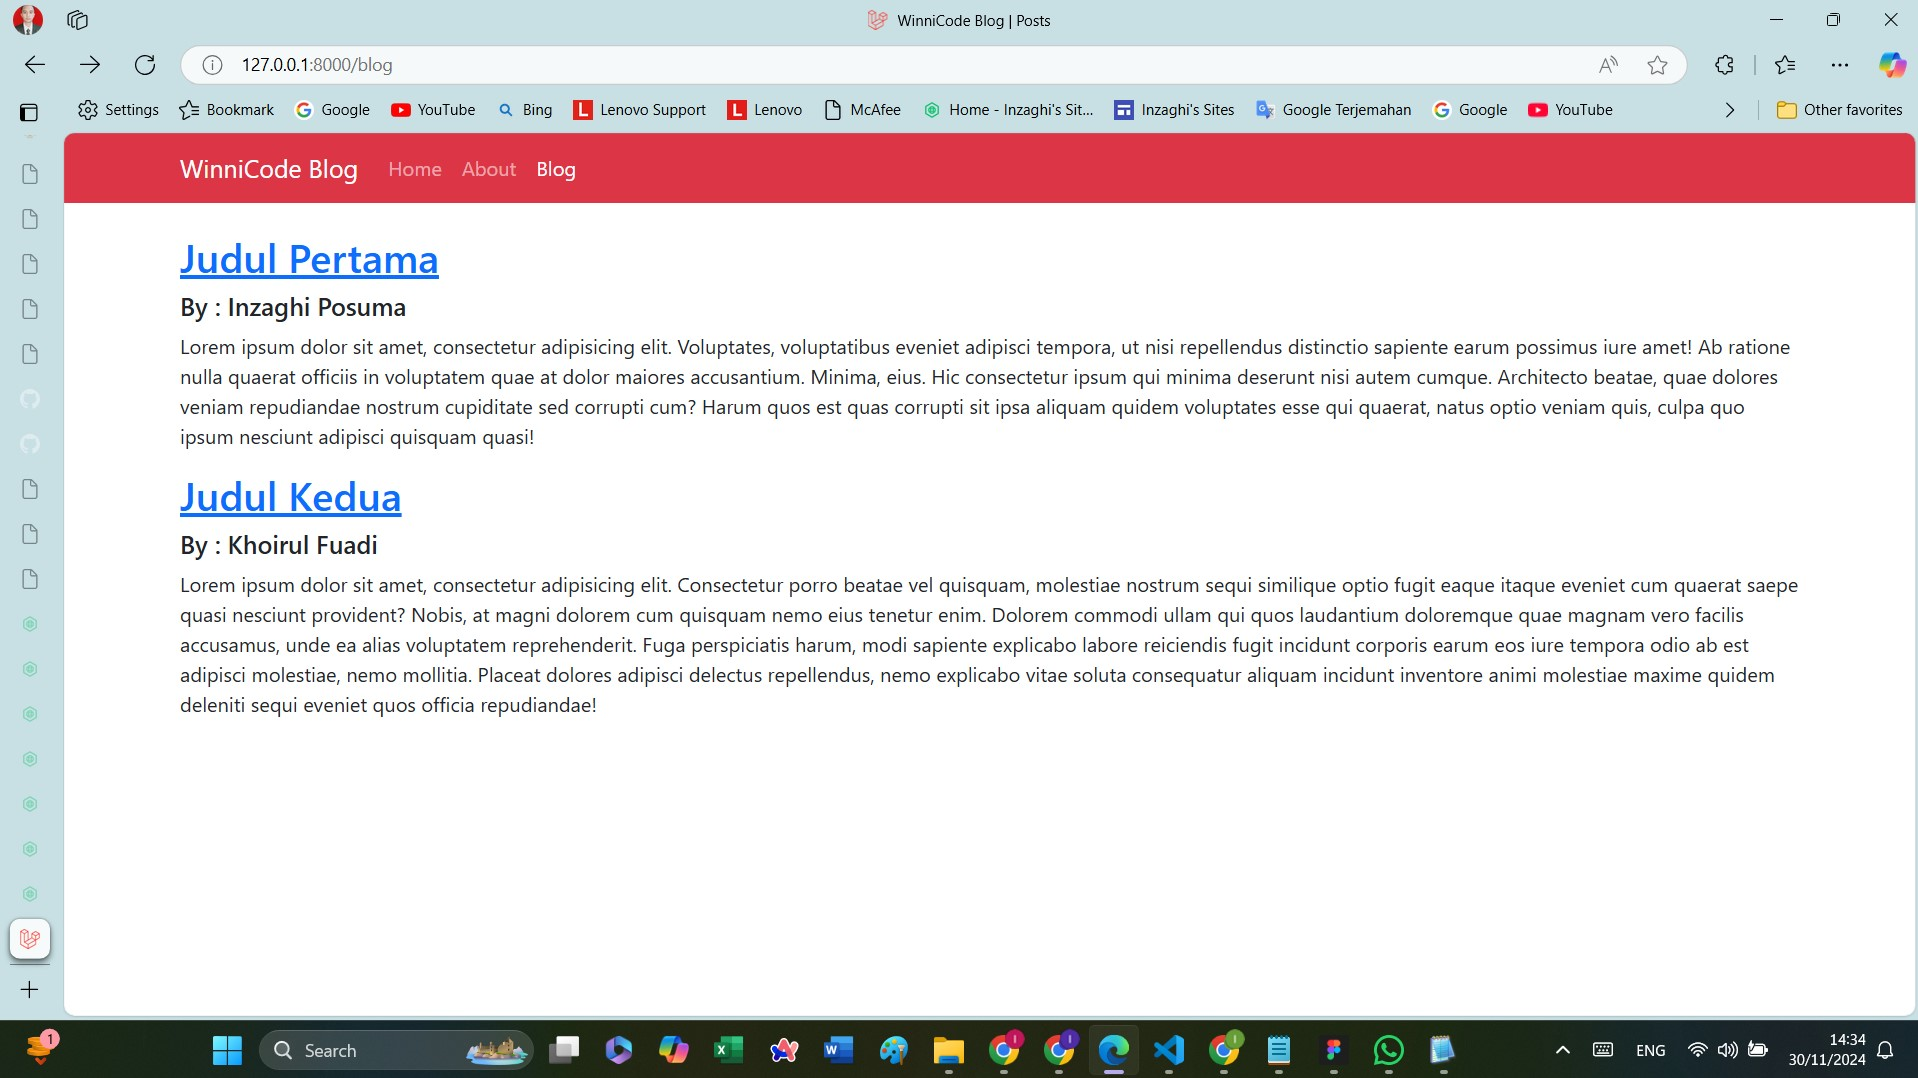
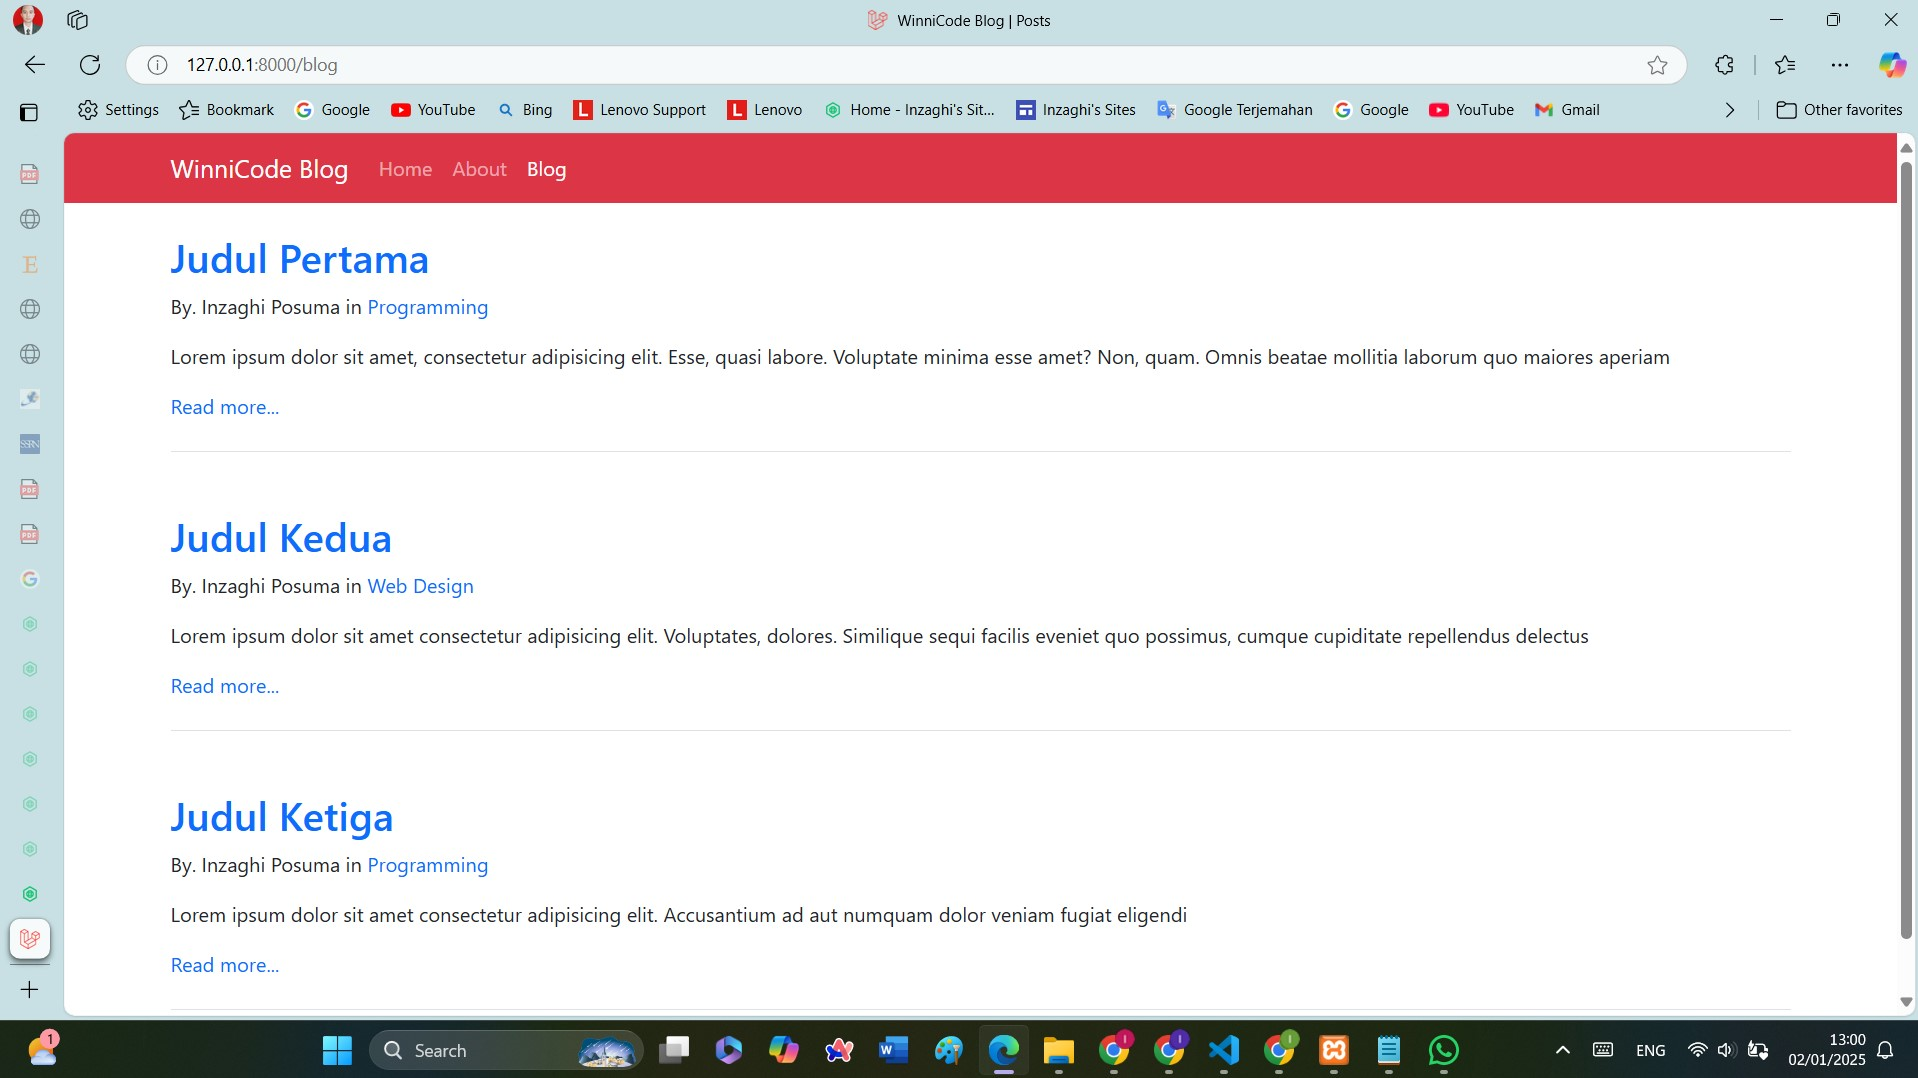
Edited some Files like Database Seeder

diff --git a/web-blog-laravel/database/seeders/DatabaseSeeder.php b/web-blog-laravel/database/seeders/DatabaseSeeder.php
@@ -2,9 +2,12 @@
 
 namespace Database\Seeders;
 
-use App\Models\User;
 // use Illuminate\Database\Console\Seeds\WithoutModelEvents;
 use Illuminate\Database\Seeder;
+
+use App\Models\User;
+use App\Models\Category;
+use App\Models\Post;
 
 class DatabaseSeeder extends Seeder
 {
@@ -15,9 +18,90 @@ class DatabaseSeeder extends Seeder
     {
         // User::factory(10)->create();
 
-        User::factory()->create([
-            'name' => 'Test User',
-            'email' => 'test@example.com',
+        // User::factory()->create([
+        //     'name' => 'Test User',
+        //     'email' => 'test@example.com',
+        // ]);
+
+        // Buat user
+        User::create([
+            'name' => 'Inzaghi Posuma',
+            'email' => 'izzumiposhaf29@gmail.com',
+            'password' => bcrypt('12345'),
+        ]);
+
+        // Buat kategori
+        Category::create([
+            'name' => 'Web Programming',
+            'slug' => 'web-programming',
+        ]);
+
+        Category::create([
+            'name' => 'Personal',
+            'slug' => 'personal',
+        ]);
+
+        Post::create([
+            'title' => 'Judul Pertama',
+            'slug' => 'judul-pertama',
+            'excerpt' => 'Lorem ipsum, dolor sit amet consectetur adipisicing elit. Impedit quod, in
+                suscipit voluptatum ducimus, doloremque eveniet, inventore architecto corporis
+                ut fugit!',
+            'body' => 'Lorem ipsum, dolor sit amet consectetur adipisicing elit. Impedit quod, in
+                suscipit voluptatum ducimus, doloremque eveniet, inventore architecto corporis
+                ut fugit! Vero voluptatibus odit, sequi distinctio dolor hic enim, ut natus
+                harum iste facere magnam? Perferendis, accusantium magni doloribus aut iusto
+                recusandae culpa aspernatur rerum nostrum et incidunt voluptate dolores
+                molestias dolorem commodi porro possimus modi asperiores. Voluptates, dicta
+                quibusdam! Vitae iure assumenda ad impedit dolore earum sunt laudantium
+                reiciendis? Facilis necessitatibus, impedit, recusandae vitae perspiciatis sint
+                quaerat distinctio beatae deleniti corporis, hic repudiandae fugit. Officiis
+                amet, enim accusamus perferendis rerum possimus impedit omnis distinctio, cumque
+                magnam accusantium magni praesentium?',
+            'category_id' => 1,
+            'user_id' => 1
+        ]);
+
+        Post::create([
+            'title' => 'Judul Kedua',
+            'slug' => 'judul-kedua',
+            'excerpt' => 'Lorem ipsum, dolor sit amet consectetur adipisicing elit. Impedit quod, in
+                suscipit voluptatum ducimus, doloremque eveniet, inventore architecto corporis
+                ut fugit!',
+            'body' => 'Lorem ipsum, dolor sit amet consectetur adipisicing elit. Impedit quod, in
+                suscipit voluptatum ducimus, doloremque eveniet, inventore architecto corporis
+                ut fugit! Vero voluptatibus odit, sequi distinctio dolor hic enim, ut natus
+                harum iste facere magnam? Perferendis, accusantium magni doloribus aut iusto
+                recusandae culpa aspernatur rerum nostrum et incidunt voluptate dolores
+                molestias dolorem commodi porro possimus modi asperiores. Voluptates, dicta
+                quibusdam! Vitae iure assumenda ad impedit dolore earum sunt laudantium
+                reiciendis? Facilis necessitatibus, impedit, recusandae vitae perspiciatis sint
+                quaerat distinctio beatae deleniti corporis, hic repudiandae fugit. Officiis
+                amet, enim accusamus perferendis rerum possimus impedit omnis distinctio, cumque
+                magnam accusantium magni praesentium?',
+            'category_id' => 1,
+            'user_id' => 1
+        ]);
+
+        Post::create([
+            'title' => 'Judul Ketiga',
+            'slug' => 'judul-ketiga',
+            'excerpt' => 'Lorem ipsum, dolor sit amet consectetur adipisicing elit. Impedit quod, in
+                suscipit voluptatum ducimus, doloremque eveniet, inventore architecto corporis
+                ut fugit!',
+            'body' => 'Lorem ipsum, dolor sit amet consectetur adipisicing elit. Impedit quod, in
+                suscipit voluptatum ducimus, doloremque eveniet, inventore architecto corporis
+                ut fugit! Vero voluptatibus odit, sequi distinctio dolor hic enim, ut natus
+                harum iste facere magnam? Perferendis, accusantium magni doloribus aut iusto
+                recusandae culpa aspernatur rerum nostrum et incidunt voluptate dolores
+                molestias dolorem commodi porro possimus modi asperiores. Voluptates, dicta
+                quibusdam! Vitae iure assumenda ad impedit dolore earum sunt laudantium
+                reiciendis? Facilis necessitatibus, impedit, recusandae vitae perspiciatis sint
+                quaerat distinctio beatae deleniti corporis, hic repudiandae fugit. Officiis
+                amet, enim accusamus perferendis rerum possimus impedit omnis distinctio, cumque
+                magnam accusantium magni praesentium?',
+            'category_id' => 2,
+            'user_id' => 1
         ]);
     }
 }
